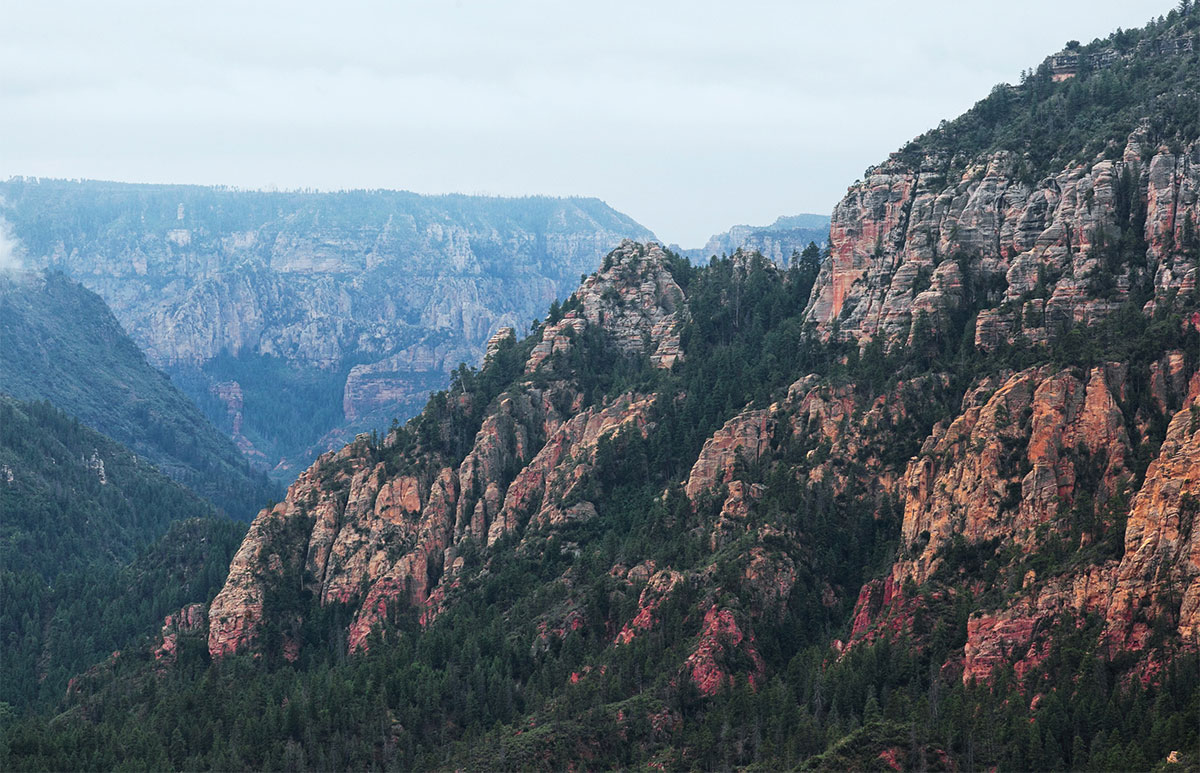
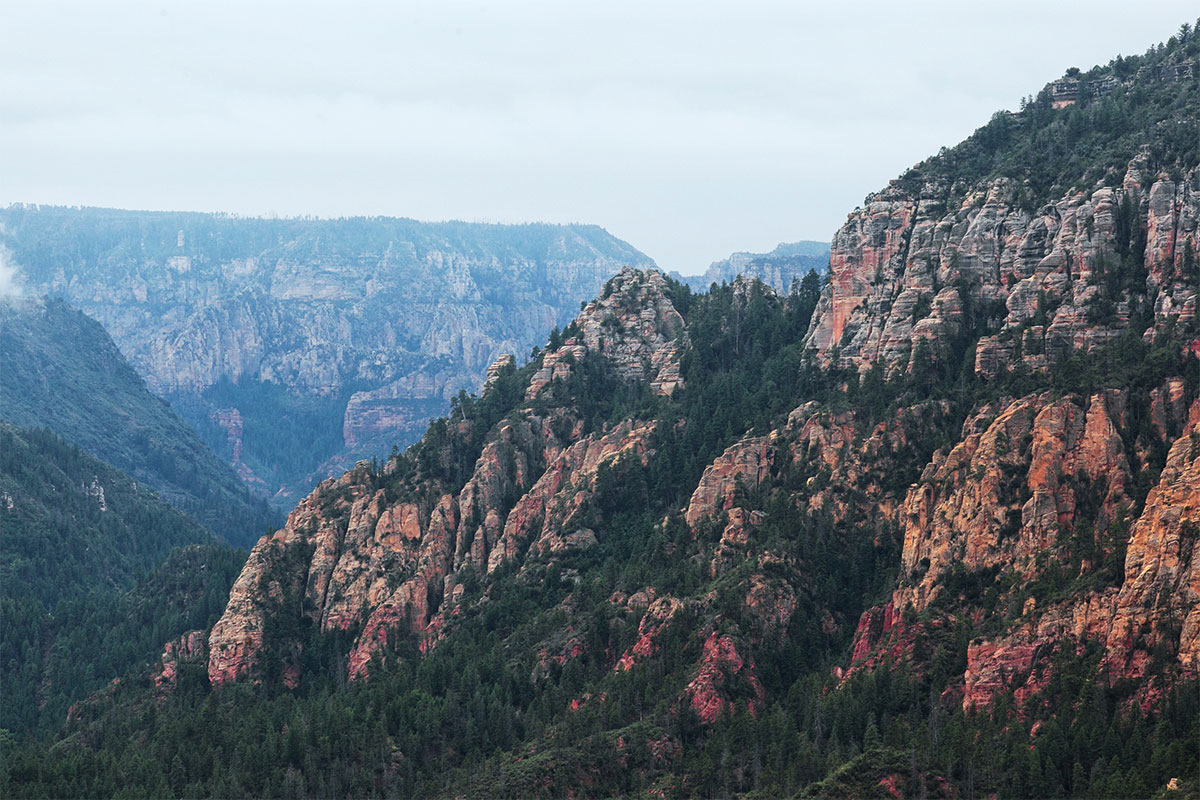
Баннер на главной странице седоны.

diff --git a/sedona/css/styles.css b/sedona/css/styles.css
@@ -25,11 +25,18 @@ h2 {
 }
 
 .fake-body {
+    position: relative;
     margin: 0 auto;
     min-width: 768px;
     max-width: 1200px;
     background: #fff;
     box-shadow: 0 0 15px 5px #e8e8e8;
+}
+
+.main-header:after {
+    content: "";
+    display: table;
+    clear: both;
 }
 
 .main-navigation ul {
@@ -59,7 +66,40 @@ h2 {
 .main-navigation img {
     display: block;
     position: absolute;
+    z-index: 10;
     left: 0;
     right: 0;
+    margin: 0 auto;
+}
+
+.banner {
+    position: relative;
+    height: 512px;
+    overflow: hidden;
+}
+
+.banner:after {
+    content: "";
+    display: block;
+    position: absolute;
+    top: 0;
+    bottom: 0;
+    left: 0;
+    right: 0;
+    background: url('../img/banner-mask.png') 0 bottom no-repeat;
+    background-size: 100% 57px;
+}
+
+.banner-image {
+    display: block;
+    width: 100%;
+    height: auto;
+}
+
+.banner-text {
+    position: absolute;
+    left: 0;
+    right: 0;
+    top: 76px;
     margin: 0 auto;
 }
